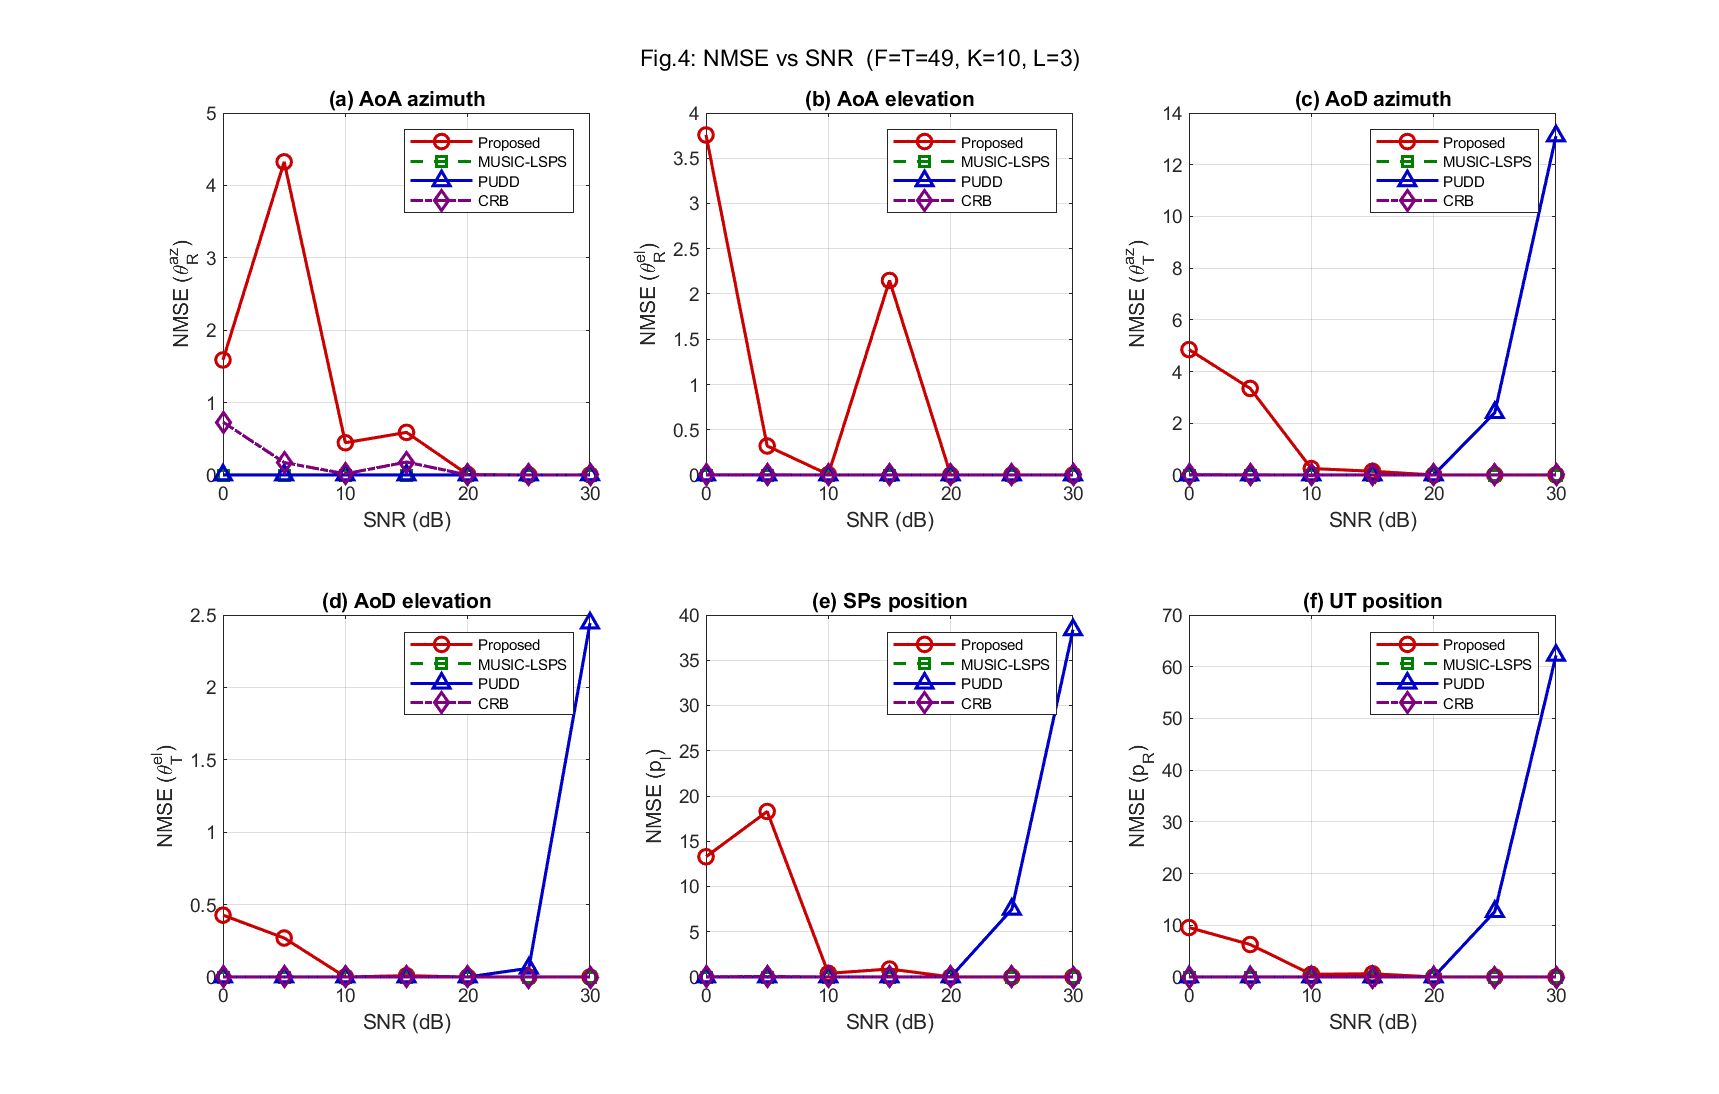
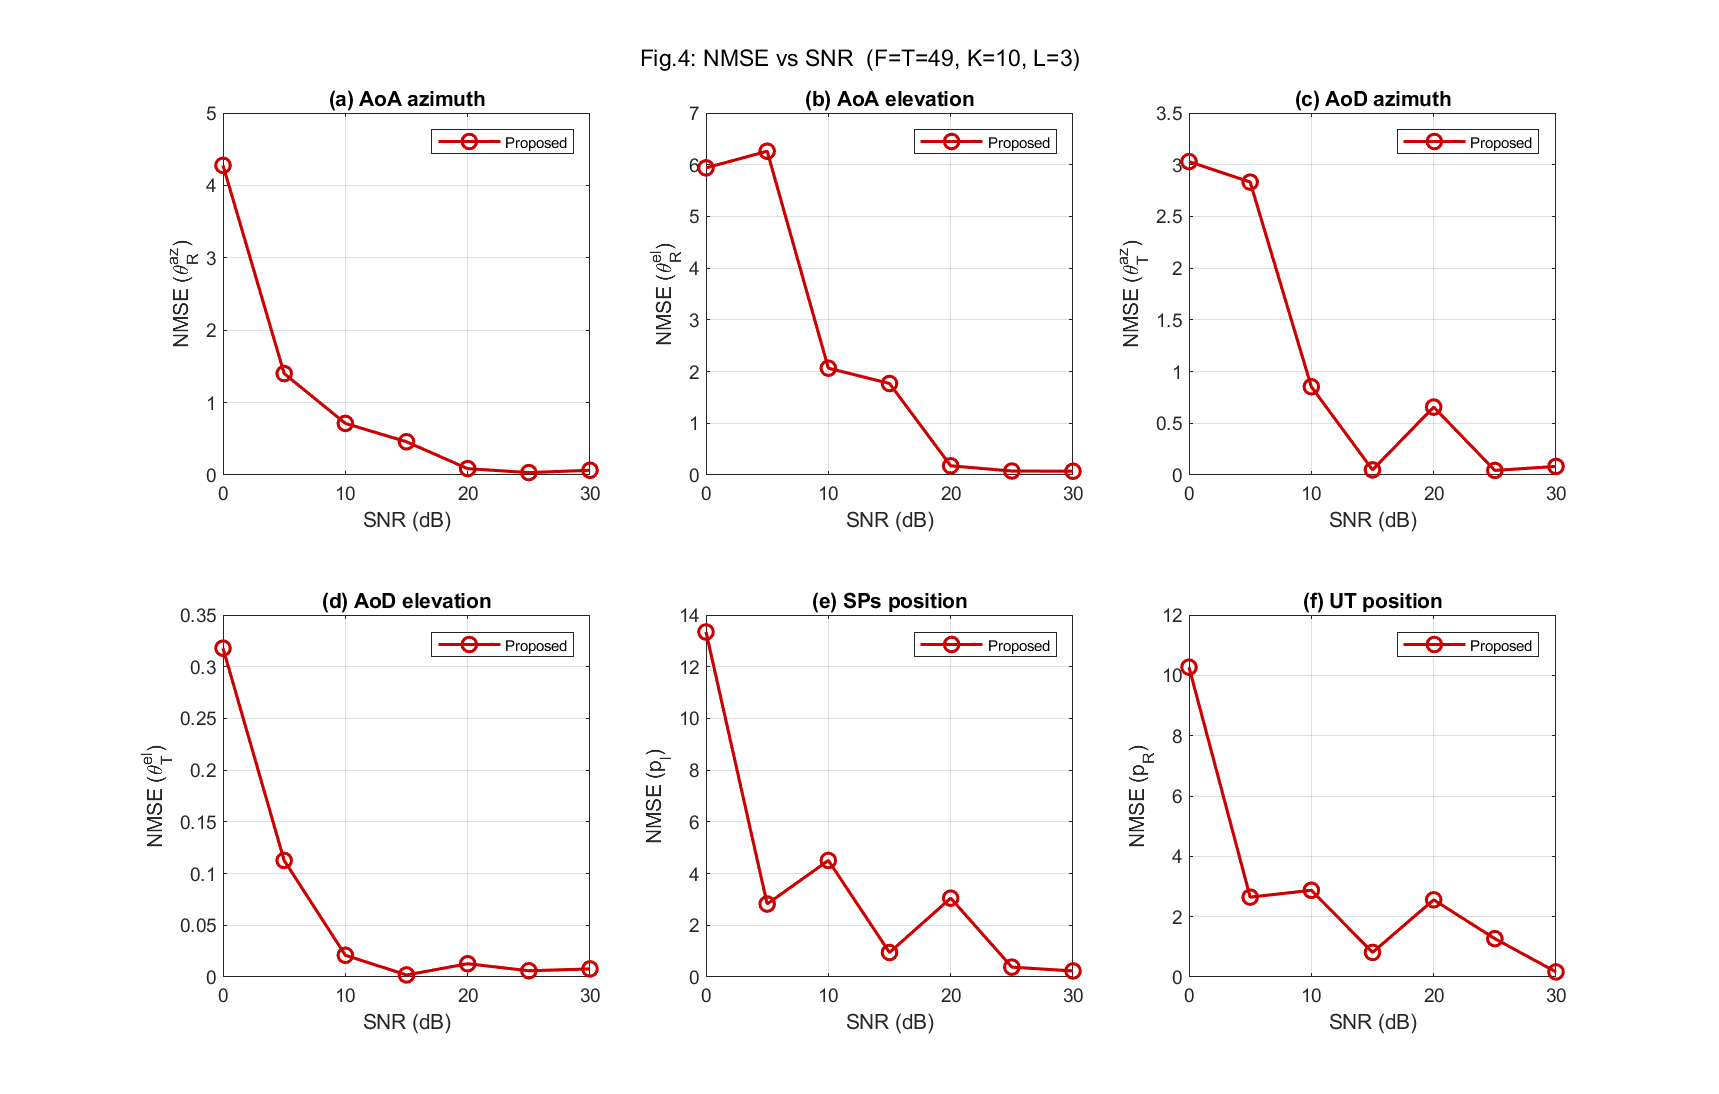
Just proposed line in Fig 4

diff --git a/ISAC_Tensor_Sim/ISAC_Tensor_Sim/run_monte_carlo.m b/ISAC_Tensor_Sim/ISAC_Tensor_Sim/run_monte_carlo.m
@@ -108,33 +108,39 @@ function results = run_monte_carlo(params)
                 nmse_acc(1,:) = nmse_acc(1,:) + nmse_vals;
 
                 % --- Baseline: MUSIC-LSPS ---
-                [az_R_mu, el_R_mu, az_T_mu, el_T_mu, tau_mu, pR_mu, pl_mu] = ...
-                    music_lsps(AR_hat, BT_hat, C_hat, params, pl_all, ...
-                               tau_true, az_R, el_R, az_T, el_T);
-                nmse_mu = compute_nmse(az_R, el_R, az_T, el_T, tau_true, ...
-                    params.pR, pl_all, az_R_mu, el_R_mu, az_T_mu, el_T_mu, ...
-                    tau_mu, pR_mu, pl_mu);
-                if ~any(nmse_mu > 100)
-                    nmse_acc(2,:) = nmse_acc(2,:) + nmse_mu;
+                if isfield(params, 'run_music') && params.run_music
+                    [az_R_mu, el_R_mu, az_T_mu, el_T_mu, tau_mu, pR_mu, pl_mu] = ...
+                        music_lsps(AR_hat, BT_hat, C_hat, params, pl_all, ...
+                                   tau_true, az_R, el_R, az_T, el_T);
+                    nmse_mu = compute_nmse(az_R, el_R, az_T, el_T, tau_true, ...
+                        params.pR, pl_all, az_R_mu, el_R_mu, az_T_mu, el_T_mu, ...
+                        tau_mu, pR_mu, pl_mu);
+                    if ~any(nmse_mu > 100)
+                        nmse_acc(2,:) = nmse_acc(2,:) + nmse_mu;
+                    end
                 end
 
                 % --- Baseline: PUDD ---
-                [az_R_pu, el_R_pu, az_T_pu, el_T_pu, tau_pu, pR_pu, pl_pu] = ...
-                    pudd_baseline(AR_hat, BT_hat, C_hat, params, pl_all, ...
-                                  tau_true, az_R, el_R, az_T, el_T);
-                nmse_pu = compute_nmse(az_R, el_R, az_T, el_T, tau_true, ...
-                    params.pR, pl_all, az_R_pu, el_R_pu, az_T_pu, el_T_pu, ...
-                    tau_pu, pR_pu, pl_pu);
-                if ~any(nmse_pu > 100)
-                    nmse_acc(3,:) = nmse_acc(3,:) + nmse_pu;
+                if isfield(params, 'run_pudd') && params.run_pudd
+                    [az_R_pu, el_R_pu, az_T_pu, el_T_pu, tau_pu, pR_pu, pl_pu] = ...
+                        pudd_baseline(AR_hat, BT_hat, C_hat, params, pl_all, ...
+                                      tau_true, az_R, el_R, az_T, el_T);
+                    nmse_pu = compute_nmse(az_R, el_R, az_T, el_T, tau_true, ...
+                        params.pR, pl_all, az_R_pu, el_R_pu, az_T_pu, el_T_pu, ...
+                        tau_pu, pR_pu, pl_pu);
+                    if ~any(nmse_pu > 100)
+                        nmse_acc(3,:) = nmse_acc(3,:) + nmse_pu;
+                    end
                 end
 
                 % --- CRB ---
-                [CRB_p, CRB_pR_mat, CRB_pl_arr] = compute_crb(params, ...
-                    AR_true, BT_true, C_true, pl_all, params.SNR_dB);
-                crb_vec = extract_crb_nmse(CRB_p, CRB_pR_mat, CRB_pl_arr, ...
-                    az_R, el_R, az_T, el_T, tau_true, params.pR, pl_all);
-                crb_acc = crb_acc + crb_vec;
+                if isfield(params, 'run_crb') && params.run_crb
+                    [CRB_p, CRB_pR_mat, CRB_pl_arr] = compute_crb(params, ...
+                        AR_true, BT_true, C_true, pl_all, params.SNR_dB);
+                    crb_vec = extract_crb_nmse(CRB_p, CRB_pR_mat, CRB_pl_arr, ...
+                        az_R, el_R, az_T, el_T, tau_true, params.pR, pl_all);
+                    crb_acc = crb_acc + crb_vec;
+                end
 
                 n_valid = n_valid + 1;
 

diff --git a/ISAC_Tensor_Sim/ISAC_Tensor_Sim/run_monte_carlo_vs_K.m b/ISAC_Tensor_Sim/ISAC_Tensor_Sim/run_monte_carlo_vs_K.m
@@ -88,32 +88,38 @@ function results = run_monte_carlo_vs_K(params)
                 nmse_acc(1,:) = nmse_acc(1,:) + nmse_vals;
 
                 % MUSIC-LSPS
-                [az_R_mu,el_R_mu,az_T_mu,el_T_mu,tau_mu,pR_mu,pl_mu] = ...
-                    music_lsps(AR_hat, BT_hat, C_hat, params, pl_all, ...
-                               tau_true, az_R, el_R, az_T, el_T);
-                nmse_mu = compute_nmse(az_R, el_R, az_T, el_T, tau_true, ...
-                    params.pR, pl_all, az_R_mu, el_R_mu, az_T_mu, el_T_mu, ...
-                    tau_mu, pR_mu, pl_mu);
-                if ~any(nmse_mu > 100)
-                    nmse_acc(2,:) = nmse_acc(2,:) + nmse_mu;
+                if isfield(params, 'run_music') && params.run_music
+                    [az_R_mu,el_R_mu,az_T_mu,el_T_mu,tau_mu,pR_mu,pl_mu] = ...
+                        music_lsps(AR_hat, BT_hat, C_hat, params, pl_all, ...
+                                   tau_true, az_R, el_R, az_T, el_T);
+                    nmse_mu = compute_nmse(az_R, el_R, az_T, el_T, tau_true, ...
+                        params.pR, pl_all, az_R_mu, el_R_mu, az_T_mu, el_T_mu, ...
+                        tau_mu, pR_mu, pl_mu);
+                    if ~any(nmse_mu > 100)
+                        nmse_acc(2,:) = nmse_acc(2,:) + nmse_mu;
+                    end
                 end
 
                 % PUDD
-                [az_R_pu,el_R_pu,az_T_pu,el_T_pu,tau_pu,pR_pu,pl_pu] = ...
-                    pudd_baseline(AR_hat, BT_hat, C_hat, params, pl_all, ...
-                                  tau_true, az_R, el_R, az_T, el_T);
-                nmse_pu = compute_nmse(az_R, el_R, az_T, el_T, tau_true, ...
-                    params.pR, pl_all, az_R_pu, el_R_pu, az_T_pu, el_T_pu, ...
-                    tau_pu, pR_pu, pl_pu);
-                if ~any(nmse_pu > 100)
-                    nmse_acc(3,:) = nmse_acc(3,:) + nmse_pu;
+                if isfield(params, 'run_pudd') && params.run_pudd
+                    [az_R_pu,el_R_pu,az_T_pu,el_T_pu,tau_pu,pR_pu,pl_pu] = ...
+                        pudd_baseline(AR_hat, BT_hat, C_hat, params, pl_all, ...
+                                      tau_true, az_R, el_R, az_T, el_T);
+                    nmse_pu = compute_nmse(az_R, el_R, az_T, el_T, tau_true, ...
+                        params.pR, pl_all, az_R_pu, el_R_pu, az_T_pu, el_T_pu, ...
+                        tau_pu, pR_pu, pl_pu);
+                    if ~any(nmse_pu > 100)
+                        nmse_acc(3,:) = nmse_acc(3,:) + nmse_pu;
+                    end
                 end
 
                 % CRB
-                [CRB_p,CRB_pR_mat,CRB_pl_arr] = compute_crb(params, ...
-                    AR_true, BT_true, C_true, pl_all, params.SNR_dB);
-                crb_acc = crb_acc + extract_crb_nmse_local(CRB_p, CRB_pR_mat, ...
-                    CRB_pl_arr, az_R, el_R, az_T, el_T, tau_true, params.pR, pl_all);
+                if isfield(params, 'run_crb') && params.run_crb
+                    [CRB_p,CRB_pR_mat,CRB_pl_arr] = compute_crb(params, ...
+                        AR_true, BT_true, C_true, pl_all, params.SNR_dB);
+                    crb_acc = crb_acc + extract_crb_nmse_local(CRB_p, CRB_pR_mat, ...
+                        CRB_pl_arr, az_R, el_R, az_T, el_T, tau_true, params.pR, pl_all);
+                end
 
                 n_valid = n_valid + 1;
             catch

diff --git a/ISAC_Tensor_Sim/ISAC_Tensor_Sim/plot_fig5.m b/ISAC_Tensor_Sim/ISAC_Tensor_Sim/plot_fig5.m
@@ -22,15 +22,23 @@ function plot_fig5(results, params)
         subplot(2,3,pi_);
         hold on; grid on; box on;
         for mi = 1:3
-            data = results.(methods{mi}).(fields{pi_});
-            data = max(data, 1e-12);
-            semilogy(K_vec, data, markers{mi}, 'Color', colors{mi}, ...
-                'LineWidth', 1.5, 'MarkerSize', 7, 'DisplayName', leg_str{mi});
+            if isfield(results, methods{mi})
+                data = results.(methods{mi}).(fields{pi_});
+                if any(data > 0)
+                    data = max(data, 1e-12);
+                    semilogy(K_vec, data, markers{mi}, 'Color', colors{mi}, ...
+                        'LineWidth', 1.5, 'MarkerSize', 7, 'DisplayName', leg_str{mi});
+                end
+            end
         end
-        crb_data = results.CRB.(fields{pi_});
-        crb_data = max(crb_data, 1e-12);
-        semilogy(K_vec, crb_data, markers{4}, 'Color', colors{4}, ...
-            'LineWidth', 1.5, 'MarkerSize', 7, 'DisplayName', leg_str{4});
+        if isfield(results, 'CRB')
+            crb_data = results.CRB.(fields{pi_});
+            if any(crb_data > 0)
+                crb_data = max(crb_data, 1e-12);
+                semilogy(K_vec, crb_data, markers{4}, 'Color', colors{4}, ...
+                    'LineWidth', 1.5, 'MarkerSize', 7, 'DisplayName', leg_str{4});
+            end
+        end
         xlabel('K', 'FontSize', 10);
         ylabel(ylabels{pi_}, 'FontSize', 10);
         title(panel_labels{pi_}, 'FontSize', 9);

diff --git a/ISAC_Tensor_Sim/ISAC_Tensor_Sim/plot_fig4.m b/ISAC_Tensor_Sim/ISAC_Tensor_Sim/plot_fig4.m
@@ -23,14 +23,22 @@ function plot_fig4(results, params)
         hold on; grid on; box on;
 
         for mi = 1:3
-            data = results.(methods{mi}).(fields{pi_});
-            plot(SNR_vec, data, markers{mi}, 'Color', colors{mi}, ...
-                'LineWidth', 1.5, 'MarkerSize', 7, 'DisplayName', leg_str{mi});
+            if isfield(results, methods{mi})
+                data = results.(methods{mi}).(fields{pi_});
+                if any(data > 0)
+                    plot(SNR_vec, data, markers{mi}, 'Color', colors{mi}, ...
+                        'LineWidth', 1.5, 'MarkerSize', 7, 'DisplayName', leg_str{mi});
+                end
+            end
         end
         % CRB
-        crb_data = results.CRB.(fields{pi_});
-        plot(SNR_vec, crb_data, markers{4}, 'Color', colors{4}, ...
-            'LineWidth', 1.5, 'MarkerSize', 7, 'DisplayName', leg_str{4});
+        if isfield(results, 'CRB')
+            crb_data = results.CRB.(fields{pi_});
+            if any(crb_data > 0)
+                plot(SNR_vec, crb_data, markers{4}, 'Color', colors{4}, ...
+                    'LineWidth', 1.5, 'MarkerSize', 7, 'DisplayName', leg_str{4});
+            end
+        end
 
         xlabel('SNR (dB)', 'FontSize', 10);
         ylabel(ylabels{pi_}, 'FontSize', 10);

diff --git a/ISAC_Tensor_Sim/ISAC_Tensor_Sim/config.m b/ISAC_Tensor_Sim/ISAC_Tensor_Sim/config.m
@@ -57,7 +57,12 @@ function params = config()
     params.K_bar = 128;
 
     % Monte Carlo and algorithm settings
-    params.MC  = 100; % Set to 50 for quick verification, user can change to 600
+    params.MC  = 100; % Default MC trials
+    
+    % Toggle baseline algorithms
+    params.run_music = false; % Set to false to save time
+    params.run_pudd  = false; % Set to false to save time
+    params.run_crb   = false; % Set to false to save time
     params.rng_seed = 42;
     params.Ns  = 1024;   % Number of 1D search points for ToA
     params.max_iter = 2000;